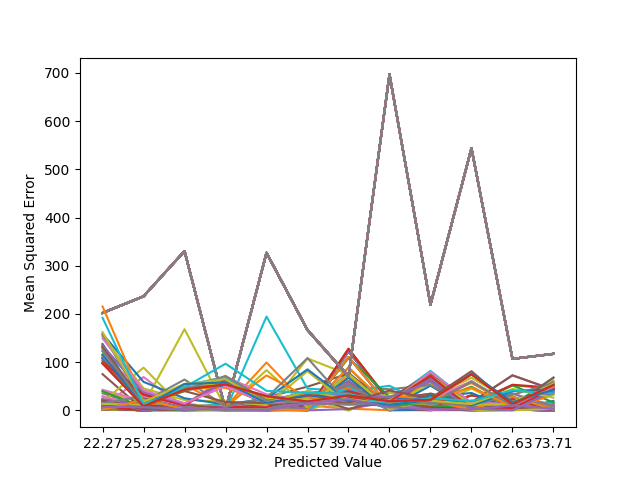
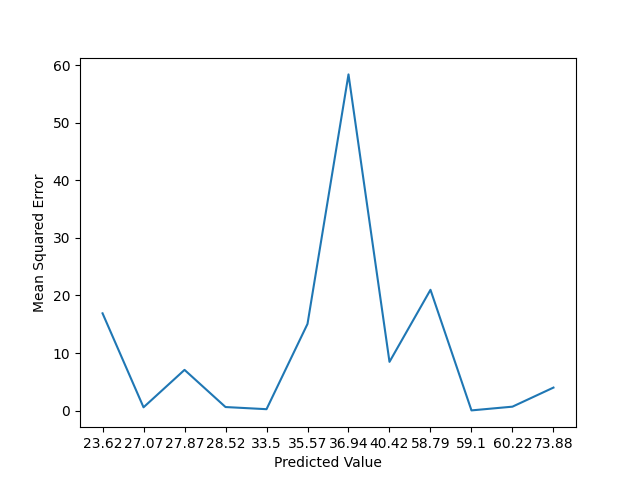
proof_code outside

diff --git a/src/Metrics/metrics.py b/src/Metrics/metrics.py
@@ -36,11 +36,14 @@ class Metrics:
         for i in range(len(list(df_results['Predict']))):
             err = (list(df_results['Predict'])[i] - list(df_results['True'])[i]) ** 2
             errors.append(err)
+        f = pyplot.figure()
         pyplot.plot(errors)
         pyplot.xticks(ticks=[i for i in range(len(errors))], labels=list(df_results['Predict']))
         pyplot.xlabel('Predicted Value')
         pyplot.ylabel('Mean Squared Error')
         pyplot.savefig(os.path.join('Results', 'graphics.png'))
+        f.clear()
+        pyplot.close(f)
 
         return rmse
 

diff --git a/proof_code.py b/proof_code.py
@@ -18,10 +18,10 @@ sublist_2 = [i for i in range(2550, 2616)]
 list_columns.extend(sublist_1)
 list_columns.extend(sublist_2)
 print('Desired columns done')
-if 'tests' in os.getcwd():
-    xl_file = pd.ExcelFile(os.path.join('..', 'Data', filename))
-else:
-    xl_file = pd.ExcelFile(os.path.join('Data', filename))
+
+
+xl_file = pd.ExcelFile(os.path.join('Data', filename))
+
 dfs = {sheet_name: xl_file.parse(sheet_name) for sheet_name in xl_file.sheet_names}
 df = dfs[sheet]
 target = list(df['DNAmGrimAge'])[:60]
